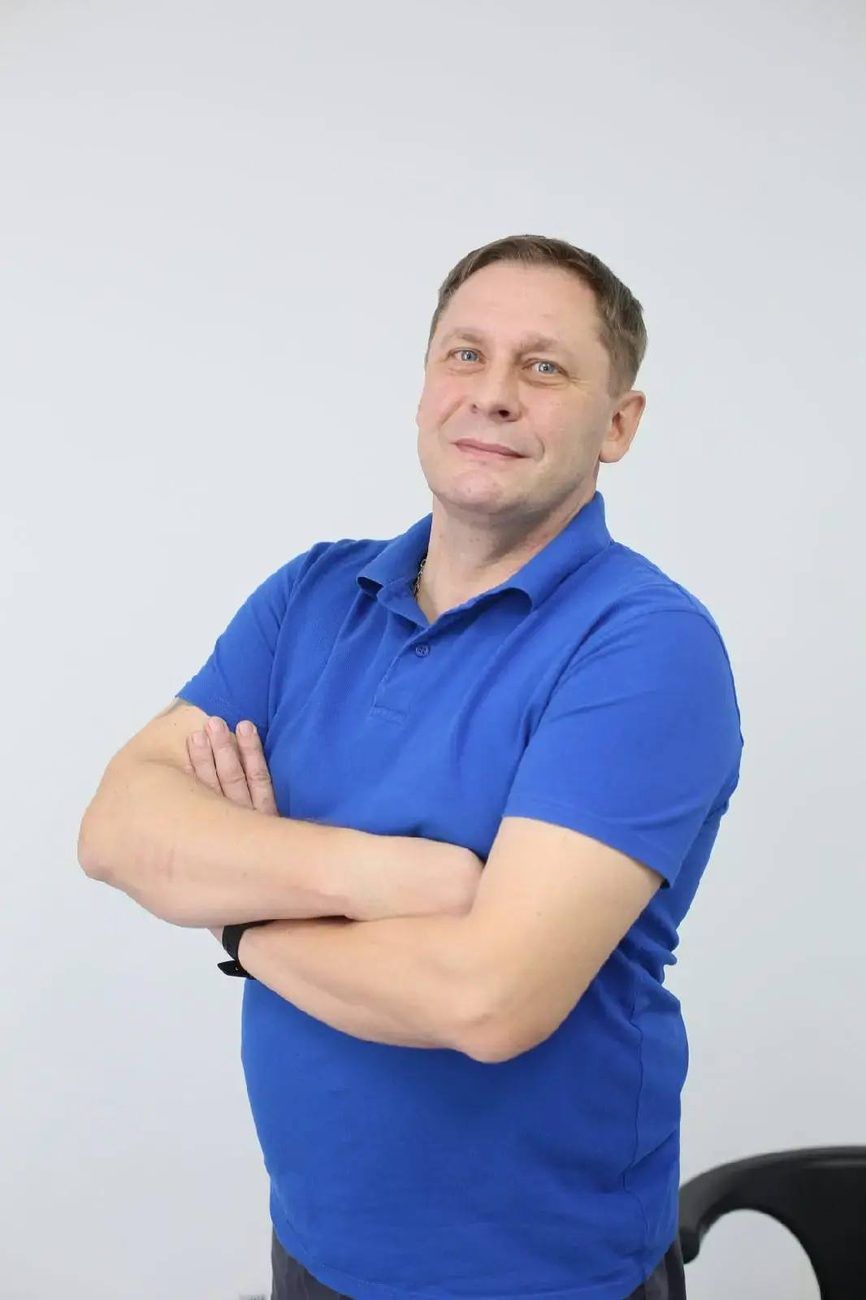
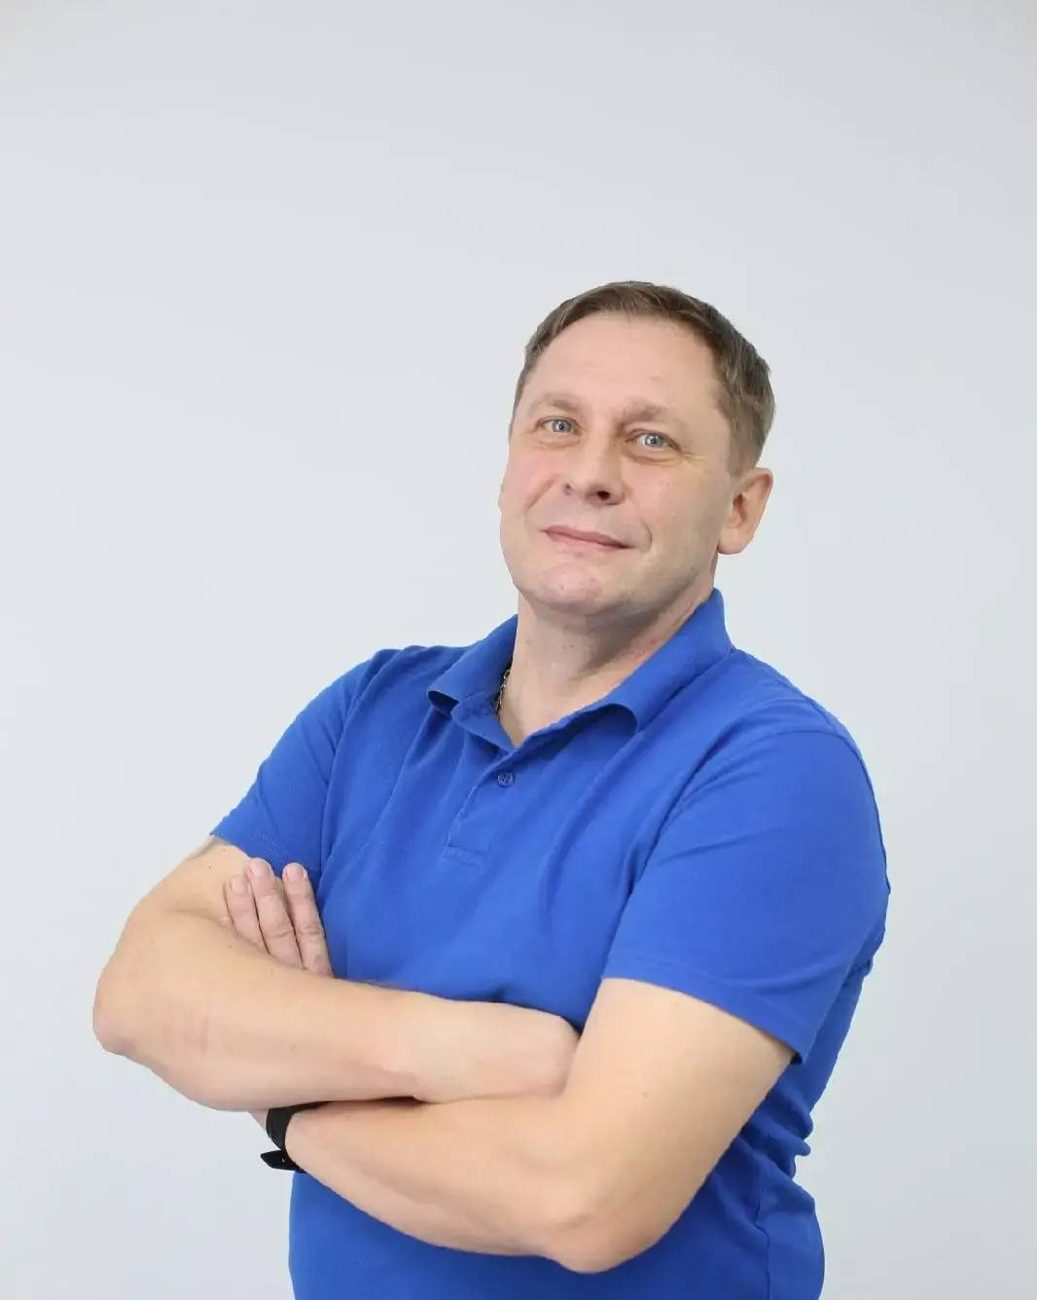
Авиценна: фото врача обрезано по рукам (первый экран и превью ссылки)

diff --git a/avicenna/css/style.css b/avicenna/css/style.css
@@ -134,7 +134,7 @@ header.nav .tlink:hover,.hero .cta .tlink:hover,.mnav .m-cta .tlink:hover{border
 .visual{position:relative;width:100%;max-width:600px;aspect-ratio:4/5;justify-self:center}
 .orbits{position:absolute;left:-16%;top:-6%;width:132%;height:112%;overflow:visible;pointer-events:none;color:var(--line)}
 .photo{position:absolute;inset:4% 12% 0 12%;border-radius:999px 999px var(--r-lg) var(--r-lg);box-shadow:0 50px 80px -40px var(--shadow);background:var(--tint)}
-.photo img{width:100%;height:100%;object-fit:cover;object-position:50% 18%;transition:transform .8s cubic-bezier(.16,1,.3,1)}
+.photo img{width:100%;height:100%;object-fit:cover;object-position:50% 100%;transition:transform .8s cubic-bezier(.16,1,.3,1)}
 .pclip{width:100%;height:100%;border-radius:inherit;overflow:hidden}
 .visual:hover .photo img{transform:scale(1.05)}
 .chip{position:absolute;right:-4%;top:12%;max-width:260px;background:color-mix(in srgb,var(--surface) 82%,transparent);-webkit-backdrop-filter:blur(14px);backdrop-filter:blur(14px);border:1px solid color-mix(in srgb,var(--surface) 70%,transparent);box-shadow:0 24px 40px -22px var(--shadow),inset 0 1px 0 rgba(255,255,255,.6);border-radius:var(--r-md);padding:16px 18px;font-size:15px;line-height:1.4}
